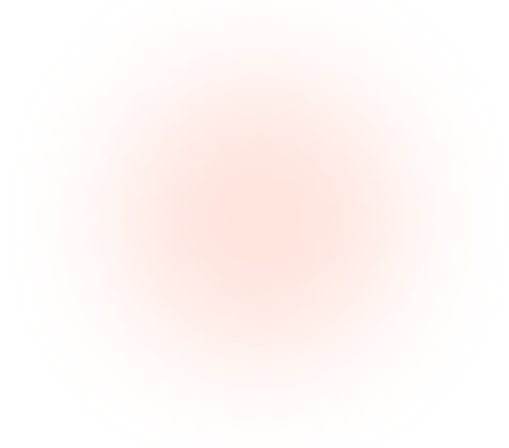
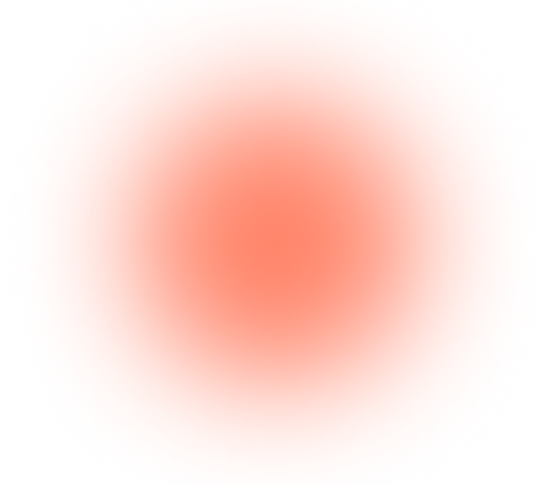
minor changes in hero bg

diff --git a/frontend/main_app/src/Pages/Home/Components/Hero.module.scss b/frontend/main_app/src/Pages/Home/Components/Hero.module.scss
@@ -148,27 +148,32 @@
 .decor_1 {
   top: 6%;
   left: -150px;
+  opacity: 0.18;
 }
 
 .decor_2 {
   bottom: 4%;
   left: -100px;
+  opacity: 0.16;
 }
 
 .decor_3 {
   top: 4%;
   right: -50px;
+  opacity: 0.7;
 }
 
 .decor_4 {
   bottom: 10%;
   right: -140px;
+  opacity: 0.11;
 }
 
 .content_block_left {
   .decor_3 {
     top: 35%;
     left: 0;
+    opacity: 0.39;
     display: none;
   }
 }
@@ -177,6 +182,7 @@
   .decor_2 {
     top: 30%;
     right: 0;
+    opacity: 0.16;
     display: none;
   }
 }
@@ -246,9 +252,18 @@ hr {
     top: 0;
   }
 
+  .decor_1 {
+    top: 33%;
+    left: -230px;
+  }
+
+  .decor_3 {
+    right: -200px;
+  }
+
   .decor_2,
   .decor_4 {
-    bottom: 0;
+    display: none;
   }
 }
 

diff --git a/frontend/main_app/src/Menu/Menu.module.scss b/frontend/main_app/src/Menu/Menu.module.scss
@@ -189,7 +189,7 @@ a {
   display: none;
   padding: 5rem 0 0.75rem;
 
-  width: 14rem;
+  width: 15rem;
   height: 100vh;
 
   font-size: 1rem;
